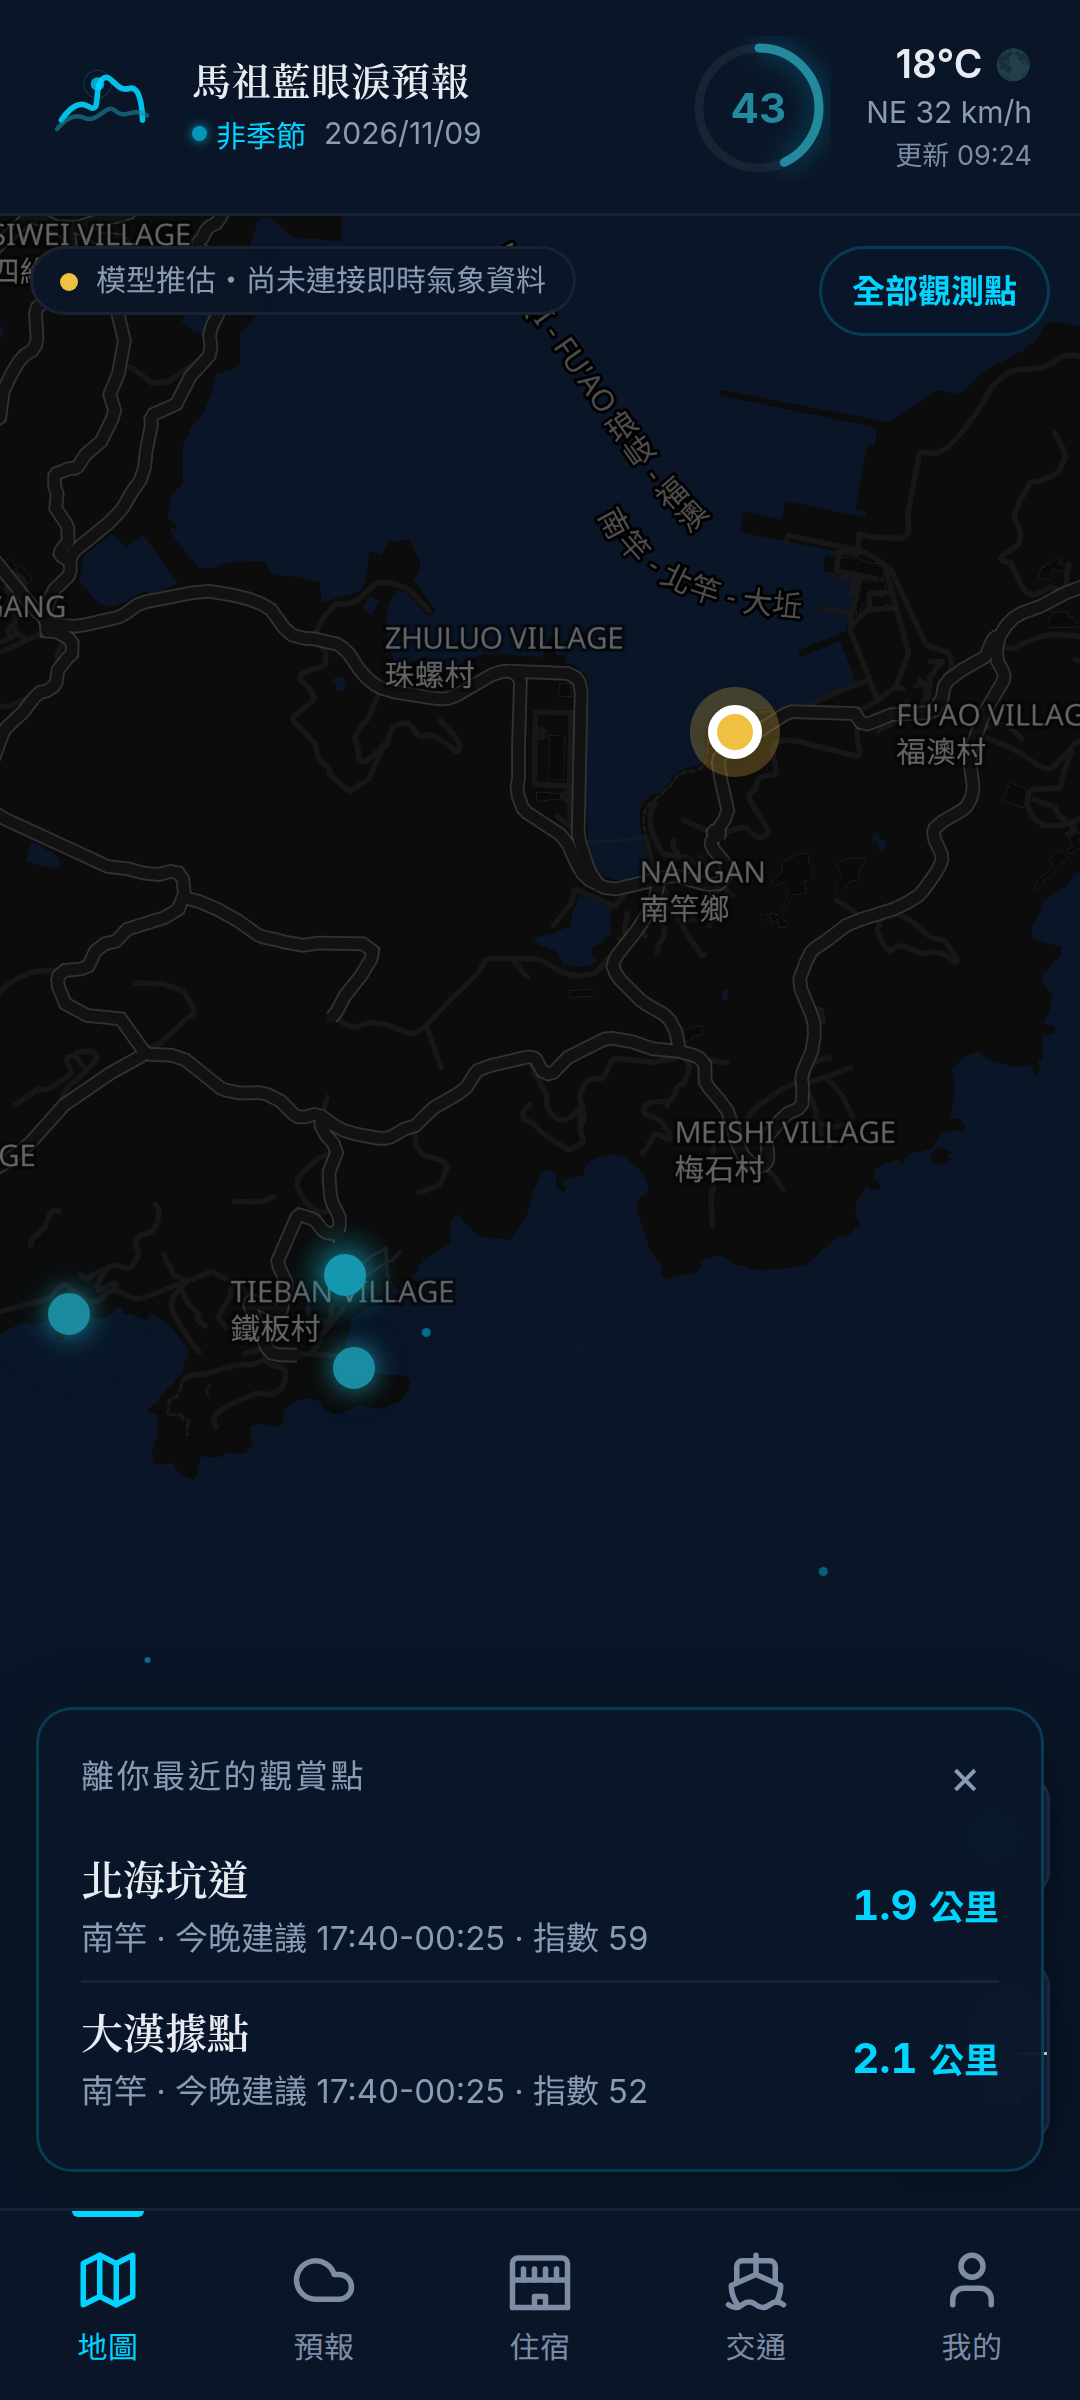
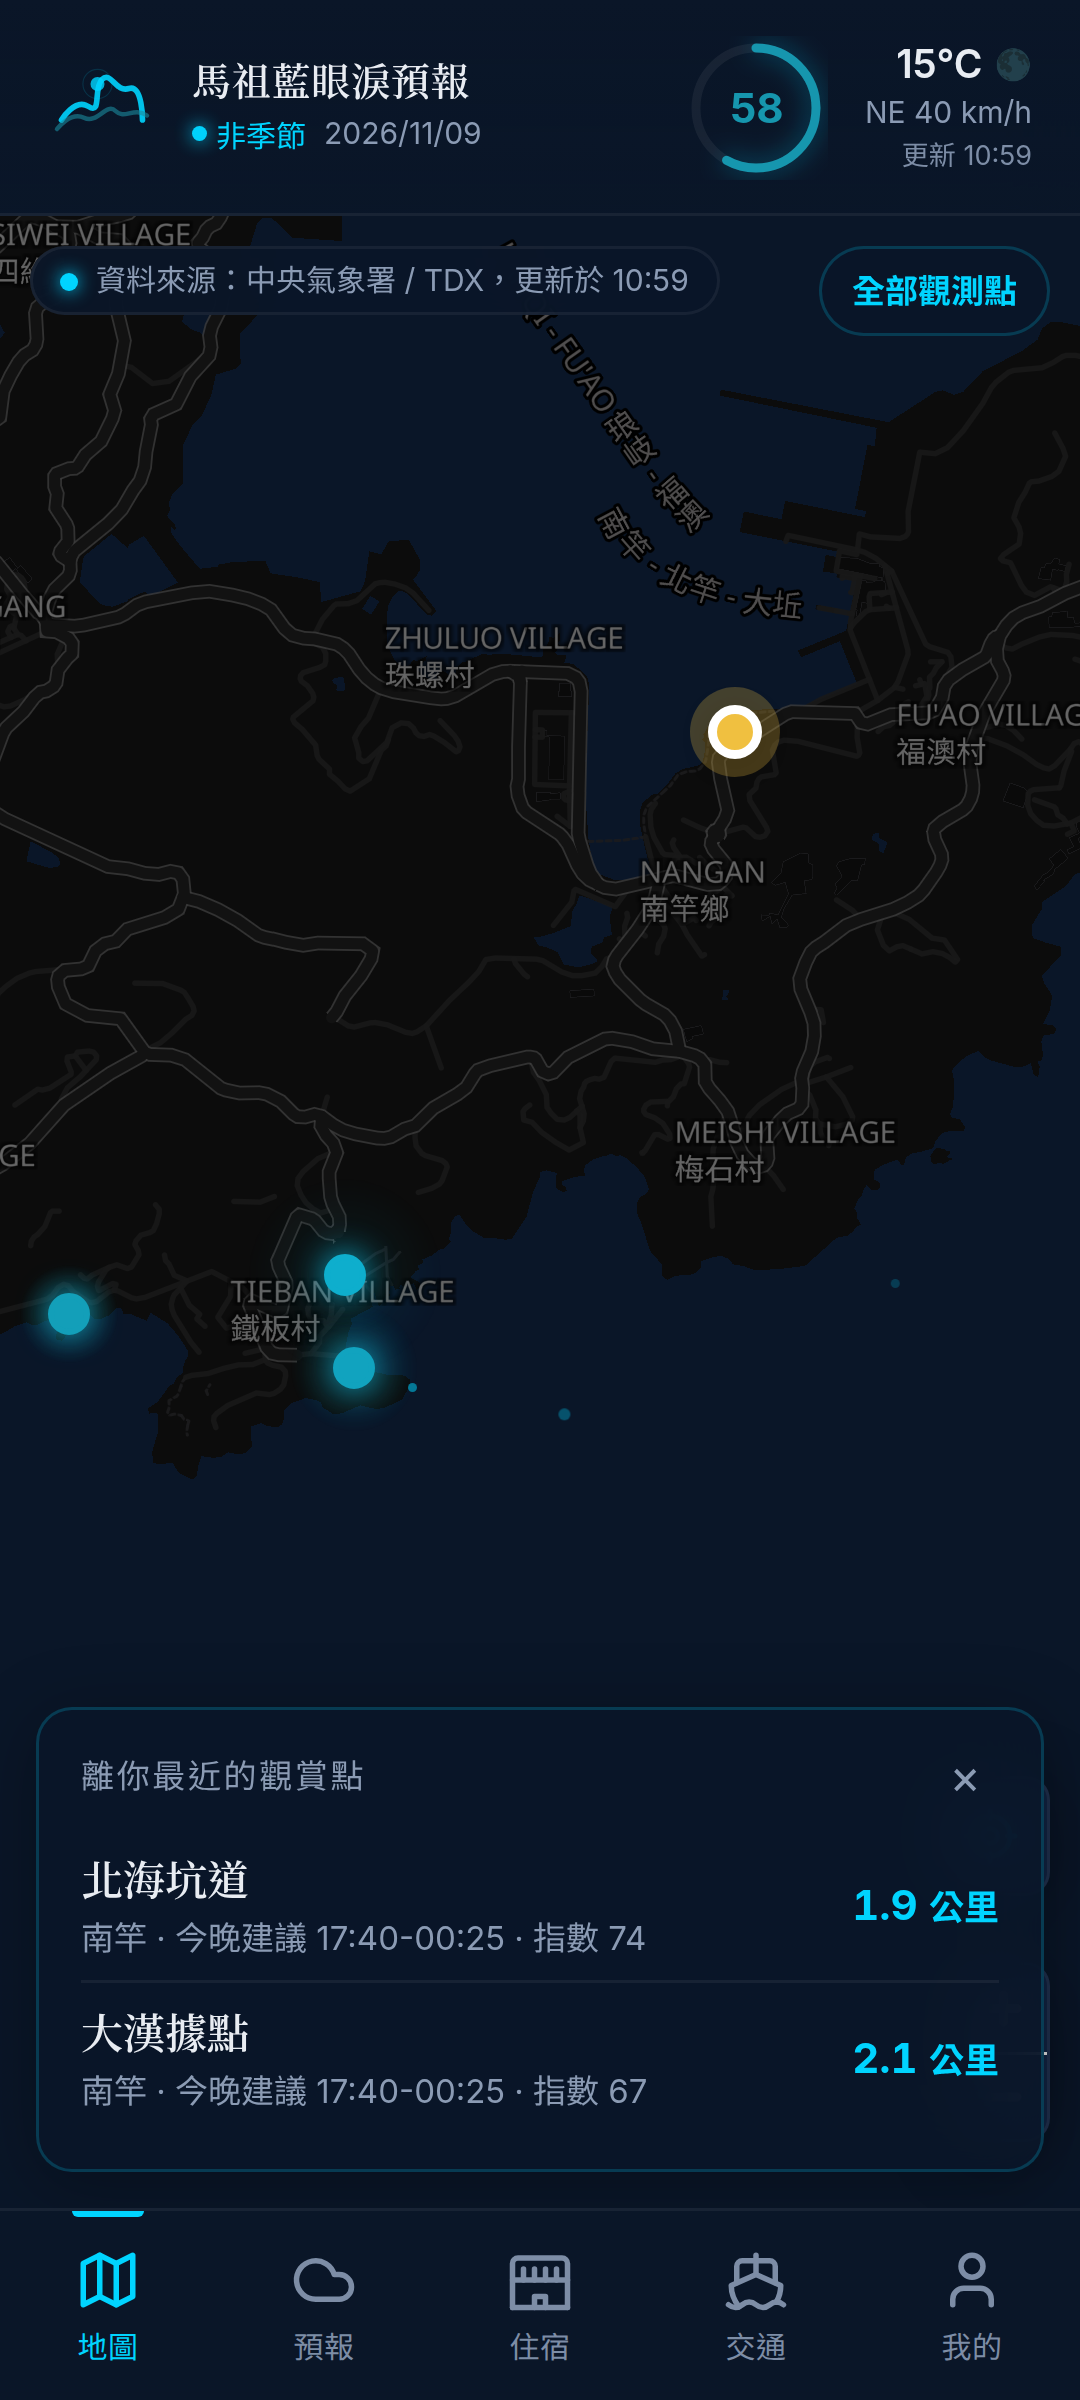
接通 CWA／TDX 即時資料：TDX token 去重與請求節流（修 429）、即時模式交通說明、特報時間易讀格式、渡輪英文狀態；重製商店截圖

diff --git a/lib/tdx.js b/lib/tdx.js
@@ -44,9 +44,17 @@ export function isConfigured() {
 }
 
 /** 取得 access token（記憶體快取） */
+let tokenInflight = null;
 export async function getToken() {
   const hit = cacheGet('tdx:token');
   if (hit) return hit;
+  // 同一實例並發請求共用一次 token 請求（TDX token 端點有頻率限制）
+  if (tokenInflight) return tokenInflight;
+  tokenInflight = requestToken().finally(() => { tokenInflight = null; });
+  return tokenInflight;
+}
+
+async function requestToken() {
   const body = new URLSearchParams({
     grant_type: 'client_credentials',
     client_id: process.env.TDX_CLIENT_ID,
@@ -63,12 +71,31 @@ export async function getToken() {
   return cacheSet('tdx:token', json.access_token, ttl);
 }
 
+const sleep = (ms) => new Promise((r) => setTimeout(r, ms));
+
+// TDX 會員金鑰有每秒呼叫上限：同一實例內的資料請求排隊、間隔 250 ms，遇 429 等 1.2 秒重試一次
+let queue = Promise.resolve();
+function throttled(fn) {
+  const run = queue.then(fn);
+  queue = run.catch(() => {}).then(() => sleep(250));
+  return run;
+}
+
 async function get(path, params = {}) {
   const token = await getToken();
   const url = new URL(`${BASE}${path}`);
   url.searchParams.set('$format', 'JSON');
   for (const [k, v] of Object.entries(params)) url.searchParams.set(k, v);
-  return fetchJson(url.toString(), { headers: { authorization: `Bearer ${token}` }, timeoutMs: 7000 });
+  const once = () => fetchJson(url.toString(), { headers: { authorization: `Bearer ${token}` }, timeoutMs: 7000 });
+  return throttled(async () => {
+    try {
+      return await once();
+    } catch (err) {
+      if (!/HTTP 429/.test(err?.message || '')) throw err;
+      await sleep(1200);
+      return once();
+    }
+  });
 }
 
 // ---------- 狀態對照 ----------
@@ -193,7 +220,7 @@ export function parseShipLiveBoard(wrapper) {
         estimated: est ? toIso08(est) : null,
         status,
         statusZh: d.DepartureRemark || STATUS_LABEL[status].zh,
-        statusEn: d.DepartureRemarkEn || STATUS_LABEL[status].en,
+        statusEn: (status !== 'unknown' ? STATUS_LABEL[status].en : null) || d.DepartureRemarkEn || STATUS_LABEL[status].en,
         cancelReason: d.CancelReason || null,
         bookingUrl: FERRY_BOOKING_URL,
         source: 'tdx',

diff --git a/lib/cwa.js b/lib/cwa.js
@@ -19,6 +19,12 @@ import { fetchJson } from './http.js';
 import { cached, DEFAULT_TTL_SEC } from './cache.js';
 import { parseCwaTime, toDateStr, toIso08 } from './time.js';
 
+// 2026-11-10T23:00:00+08:00 → 11/10 23:00（台灣時間）
+function humanTime(d) {
+  const m = toIso08(d).match(/^\d{4}-(\d{2})-(\d{2})T(\d{2}):(\d{2})/);
+  return m ? `${+m[1]}/${+m[2]} ${m[3]}:${m[4]}` : toIso08(d);
+}
+
 const BASE = 'https://opendata.cwa.gov.tw/api/v1/rest/datastore';
 
 export const DATASETS = {
@@ -298,8 +304,8 @@ export function parseWarnings(json, locationName = '連江縣') {
         severity: /警報/.test(significance) ? 'warning' : 'advisory',
         titleZh: `${locationName}${phenomena}${significance}`,
         titleEn,
-        bodyZh: `中央氣象署針對${locationName}發布${phenomena}${significance}，有效至 ${validUntil ? toIso08(validUntil) : '另行公告'}。`,
-        bodyEn: `CWA has issued a ${titleEn.toLowerCase()} for Lienchiang County${validUntil ? `, valid until ${toIso08(validUntil)}` : ''}.`,
+        bodyZh: `中央氣象署針對${locationName}發布${phenomena}${significance}，有效至 ${validUntil ? humanTime(validUntil) : '另行公告'}。`,
+        bodyEn: `CWA has issued a ${titleEn.toLowerCase()} for Lienchiang County${validUntil ? `, valid until ${humanTime(validUntil)}` : ''}.`,
         issuedAt: issuedAt ? toIso08(issuedAt) : null,
         validUntil: validUntil ? toIso08(validUntil) : null,
       };

diff --git a/lib/schedules.js b/lib/schedules.js
@@ -219,6 +219,11 @@ export const INTER_ISLAND = [
   },
 ];
 
+export const LIVE_NOTICE = {
+  zh: '航班／船班以業者公告為準，濃霧季（3–5 月）停航頻繁；東北季風期（10–3 月）海象不佳時臺馬航線常停航。',
+  en: 'Schedules are subject to operator announcements. Fog season (Mar–May) brings frequent cancellations; the Keelung ferry often suspends in rough winter seas.',
+};
+
 export const STATIC_NOTICE = {
   zh: '航班／船班以業者公告為準，濃霧季（3–5 月）停航頻繁；東北季風期（10–3 月）海象不佳時臺馬航線常停航。本靜態班表依民航局 2026 年 11–12 月時刻表及馬祖 e 點通資料整理。',
   en: 'Schedules are subject to operator announcements. Fog season (Mar–May) brings frequent cancellations; the Keelung ferry often suspends in rough winter seas. Static timetable compiled from CAA (Nov–Dec 2026) and Matsu eTravel.',

diff --git a/api/v1/transport.js b/api/v1/transport.js
@@ -2,7 +2,7 @@
 import { wrap } from '../../lib/handler.js';
 import { loadSources, envelope } from '../../lib/build.js';
 import * as tdx from '../../lib/tdx.js';
-import { staticFlights, staticFerries, INTER_ISLAND, STATIC_NOTICE } from '../../lib/schedules.js';
+import { staticFlights, staticFerries, INTER_ISLAND, STATIC_NOTICE, LIVE_NOTICE } from '../../lib/schedules.js';
 import { todayStr } from '../../lib/time.js';
 
 export default wrap(async () => {
@@ -33,7 +33,7 @@ export default wrap(async () => {
       interIsland: INTER_ISLAND,
       alerts: cwaData?.warnings?.alerts || [],
       scheduleSource,
-      staticNotice: STATIC_NOTICE,
+      staticNotice: scheduleSource.flights === 'tdx' && scheduleSource.ferries === 'tdx' ? LIVE_NOTICE : STATIC_NOTICE,
     },
   });
 });
